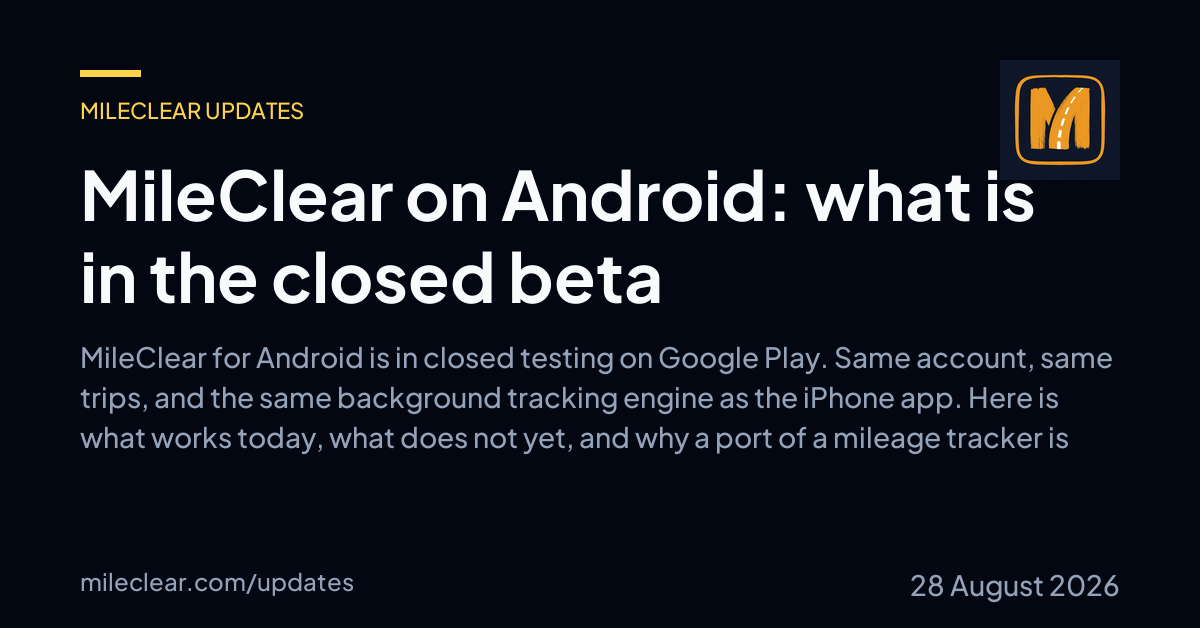
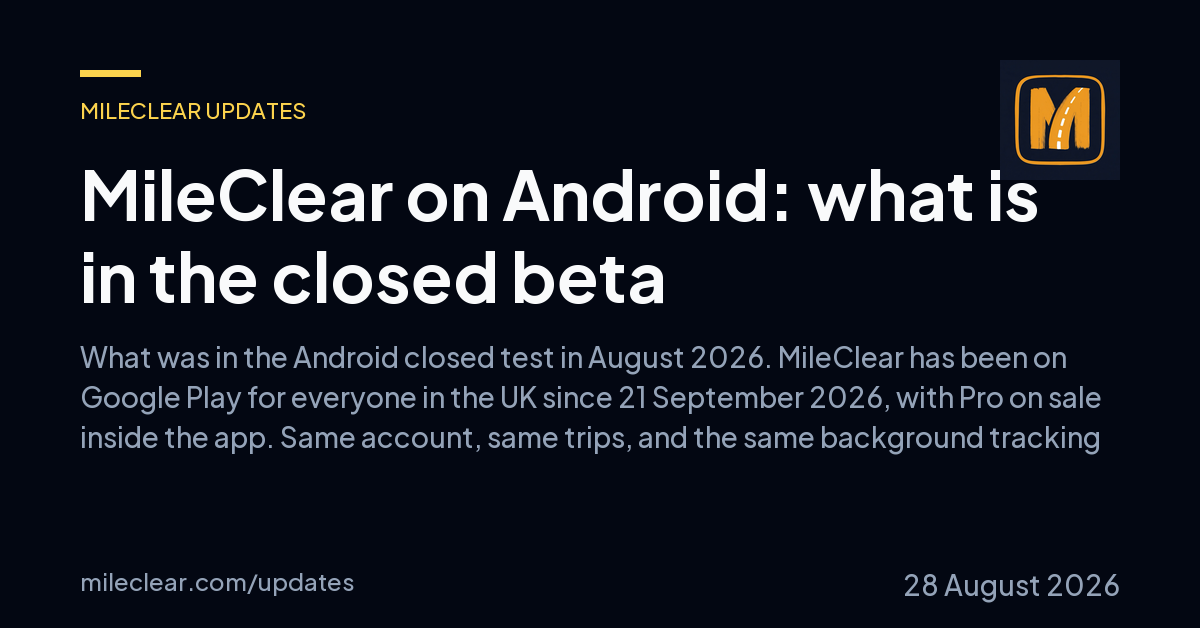
Blog: dated notes and corrections on posts that had gone out of date
Making Tax Digital quarterly updates are described as tested with HMRC's
test service only, with nothing sent to HMRC yet. Notes on the Android
closed beta (on Google Play since 21 September, Pro on sale in the app),
the April roadmap, 1.1.4 and 1.2.0. Removes 'HMRC compliance' wording,
the retired Auto-Classify Rules name and the public TestFlight link.
Corrects the 45p rate where it read as current, the Self Assessment
amendment window (12 months, then overpayment relief within 4 years of
the tax year end), and how the mileage allowance goes on the return.
Refreshes the OG cards whose excerpts changed and adds the three that
were missing.

diff --git a/apps/web/src/data/posts.ts b/apps/web/src/data/posts.ts
@@ -554,11 +554,13 @@ export const BLOG_POSTS: BlogPost[] = [
     slug: "mileclear-on-android-closed-beta",
     title: "MileClear on Android: what is in the closed beta",
     excerpt:
-      "MileClear for Android is in closed testing on Google Play. Same account, same trips, and the same background tracking engine as the iPhone app. Here is what works today, what does not yet, and why a port of a mileage tracker is harder than it sounds.",
+      "What was in the Android closed test in August 2026. MileClear has been on Google Play for everyone in the UK since 21 September 2026, with Pro on sale inside the app. Same account, same trips, and the same background tracking engine as the iPhone app.",
     date: "28 August 2026",
     author: "Gair",
     category: "announcement",
     content: `
+<p><em>Update, October 2026: MileClear is now on <a href="https://play.google.com/store/apps/details?id=com.mileclear.app">Google Play</a> for everyone in the UK, since 21 September 2026. You no longer need to ask to join, and you can buy Pro inside the Android app through Google Play, monthly or yearly. The post below describes the closed test as it was in August.</em></p>
+
 <p>MileClear has been an iPhone app for its whole life. It is now also an Android app, in closed testing on Google Play.</p>
 
 <p>This is not a re-skin or a web page in a wrapper. It is the same codebase, signing in to the same account, reading the same trips. If you have been tracking on an iPhone and you switch, your mileage is already there.</p>
@@ -752,7 +754,7 @@ export const BLOG_POSTS: BlogPost[] = [
 
 <p>The rule is that your income and expenses have to be recorded and kept digitally, and the quarterly updates have to reach HMRC from software rather than by typing figures into a website.</p>
 
-<p>A photo of a receipt is not a digital record on its own. Nor is a shoebox you tip out in January. A spreadsheet can count, provided it can talk to HMRC through bridging software. Most people will find it easier to use an app that keeps the records and does the submitting in one place.</p>
+<p>A photo of a receipt is not a digital record on its own. Nor is a shoebox you tip out in January. A spreadsheet can count, provided it can talk to HMRC through bridging software. Most people will find it easier to use software that keeps the records and sends the updates in one place.</p>
 
 <h2>Where mileage fits into Making Tax Digital</h2>
 
@@ -773,9 +775,9 @@ export const BLOG_POSTS: BlogPost[] = [
 
 <p>We will be straight with you, because there is a lot of marketing about MTD readiness that does not survive contact with the detail.</p>
 
-<p>MileClear has the full Making Tax Digital journey built. You can connect a HMRC account, see your obligations, preview the figures and walk through a submission. It currently runs against HMRC's test service, and it is labelled as beta on every screen inside the app, because we are still waiting for HMRC's production credentials. Until they are granted, submissions do not reach your real tax record, and your live tax position is unaffected.</p>
+<p>MileClear has the full Making Tax Digital journey built. You can connect a HMRC account, see your obligations, preview the figures and walk through a quarterly update. It currently runs against HMRC's test service only, and it is labelled as beta on every screen inside the app, because we are still waiting for HMRC's production credentials. Until they are granted, submissions do not reach your real tax record, and your live tax position is unaffected.</p>
 
-<p>Two limits worth knowing even once it is live. MileClear submits <strong>self-employment income only</strong>, so if you also have UK or foreign property income you will need MTD-compatible software for that as well. And it handles your in-year quarterly updates, not the year-end Final Declaration, which you will finish with HMRC or other compatible software.</p>
+<p>Two limits worth knowing even once it is live. MileClear will send <strong>self-employment income only</strong>, so if you also have UK or foreign property income you will need MTD-compatible software for that as well. And the quarterly updates are the main job. We are also testing an end-of-year step on HMRC's test service, but until that is live you will finish the Final Declaration with HMRC or other compatible software.</p>
 
 <p>We will say plainly when that changes. No dates promised until they are real.</p>
 
@@ -811,12 +813,12 @@ export const BLOG_POSTS: BlogPost[] = [
       {
         question: "Do I need an app for Making Tax Digital, or will a spreadsheet do?",
         answer:
-          "A spreadsheet can be acceptable, because the requirement is that records are kept digitally and that updates reach HMRC from software rather than being typed into a website. A spreadsheet therefore needs bridging software to submit. Many self-employed people find it simpler to use one app that keeps the records and submits them, particularly where mileage is the largest deduction and needs capturing throughout the quarter.",
+          "A spreadsheet can be acceptable, because the requirement is that records are kept digitally and that updates reach HMRC from software rather than being typed into a website. A spreadsheet therefore needs bridging software to submit. Many self-employed people find it simpler to use one piece of software that keeps the records and sends the updates, particularly where mileage is the largest deduction and needs capturing throughout the quarter.",
       },
       {
         question: "Is MileClear MTD compatible?",
         answer:
-          "The full Making Tax Digital journey is built into MileClear, but it currently runs against HMRC's test service while we wait for HMRC's production credentials, and it is labelled as beta on every screen in the app. Until that finishes, submissions do not reach your real tax record. MileClear covers self-employment income only, so property income needs separate MTD-compatible software, and it handles in-year quarterly updates rather than the year-end Final Declaration. Mileage and expense tracking are free and available today, so your records will be ready whichever software you eventually file with.",
+          "The full Making Tax Digital journey is built into MileClear, but it currently runs against HMRC's test service while we wait for HMRC's production credentials, and it is labelled as beta on every screen in the app. Until that finishes, submissions do not reach your real tax record. MileClear covers self-employment income only, so property income needs separate MTD-compatible software, and until its end-of-year step is live the Final Declaration is finished with HMRC or other compatible software. Mileage and expense tracking are free and available today, so your records will be ready whichever software you eventually file with.",
       },
     ],
   },
@@ -1143,7 +1145,7 @@ export const BLOG_POSTS: BlogPost[] = [
 
 <h2>MileClear is built for this</h2>
 
-<p>MileClear is a free <a href="/mileage-tracker-uk">UK mileage tracker</a> built around HMRC's AMAP rates and the 6-April tax year. Background GPS captures every drive, you classify each trip with a tap (or set Auto-Classify Rules so you never need to), and the Self Assessment PDF is ready when you are. <a href="/free-mileage-tracker-uk">Free forever</a> for the tracking - Pro (£4.99/mo) only covers the tax-export PDF, business insights, and a few power-user extras.</p>
+<p>MileClear is a free <a href="/mileage-tracker-uk">UK mileage tracker</a> built around HMRC's AMAP rates and the 6-April tax year. Background GPS captures every drive, you classify each trip with a tap (or let it sort trips for you by place and regular journeys, free, or by your work hours on Pro), and the Self Assessment PDF is ready when you are. <a href="/free-mileage-tracker-uk">Free forever</a> for the tracking - Pro (£4.99/mo) only covers the tax-export PDF, business insights, and a few power-user extras.</p>
 
 <p>It works for <a href="/self-employed-mileage-tracker">self-employed sole traders</a>, <a href="/delivery-driver-mileage-tracker">gig delivery drivers</a>, and <a href="/employee-mileage-tracker">PAYE employees</a> claiming Mileage Allowance Relief.</p>
 
@@ -1269,7 +1271,7 @@ export const BLOG_POSTS: BlogPost[] = [
 
 <h2>MileClear's approach</h2>
 
-<p>MileClear is a free <a href="/mileage-tracker-uk">UK mileage tracker</a> built specifically for HMRC compliance. Every trip is GPS-recorded contemporaneously, classified business or personal with a tap (or auto-classified via saved locations or work schedule), and the AMAP calculation runs in real time as you drive. The Self Assessment PDF export (Pro, £4.99/mo) gives you per-trip detail + summary + attestation cover sheet - drop it onto your SA103 or hand it to your accountant. The tracking itself is <a href="/free-mileage-tracker-uk">free forever</a>.</p>
+<p>MileClear is a free <a href="/mileage-tracker-uk">UK mileage tracker</a> built around HMRC's mileage rules. Every trip is GPS-recorded as it happens, classified business or personal with a tap (or sorted for you by saved place, or by your work hours on Pro), and the AMAP calculation runs in real time as you drive. The Self Assessment PDF export (Pro, £4.99/mo) gives you per-trip detail + summary + attestation cover sheet - drop it onto your SA103 or hand it to your accountant. The tracking itself is <a href="/free-mileage-tracker-uk">free forever</a>.</p>
 
 <p><a href="https://apps.apple.com/app/mileclear/id6759671005">Install MileClear on the App Store</a>.</p>
 
@@ -1470,17 +1472,18 @@ export const BLOG_POSTS: BlogPost[] = [
 <li>MOT + tax expiry reminders</li>
 <li>Manual expense tracking (15 SA103-mapped categories)</li>
 <li>Push notifications, profile, feedback voting</li>
+<li>Sharing your records with an accountant whose practice uses MileClear</li>
 </ul>
 
-<p>Pro (£4.99/month) covers:</p>
+<p>Pro (£4.99/month or £44.99/year) covers:</p>
 <ul>
 <li>Printable Self Assessment PDF export</li>
 <li>CSV export + import</li>
 <li>Open Banking earnings sync</li>
-<li>Auto-Classify Rules</li>
+<li>Sort by work hours (sorting by place and regular journeys is free)</li>
 <li>Business Insights (£/mile, £/hour, platform comparison)</li>
 <li>Multi-month analytics</li>
-<li>Accountant sharing</li>
+<li>Emailing your accountant a read-only link from the website</li>
 <li>Journey Map (full-route visualisation)</li>
 <li>Unlimited vehicles + saved locations</li>
 </ul>
@@ -1498,24 +1501,26 @@ export const BLOG_POSTS: BlogPost[] = [
     slug: "whats-new-in-version-1-2-0",
     title: "What's New in Version 1.2.0",
     excerpt:
-      "The biggest MileClear update since launch. Quarterly HMRC submissions, road-accurate trip distances, a Lock Screen that earns its keep while you drive, and every sole-trader feature the community has been asking for. Thirty-odd things in total.",
+      "The biggest MileClear update since launch. Quarterly Making Tax Digital updates (on HMRC's test service only), road-accurate trip distances, a Lock Screen that earns its keep while you drive, and every sole-trader feature the community has been asking for. Thirty-odd things in total.",
     date: "14 May 2026",
     author: "Gair",
     category: "announcement",
     content: `
+<p><em>Update, October 2026: Making Tax Digital quarterly updates in MileClear are still tested with HMRC's test service only. Nothing is sent to HMRC yet, and your real tax record is not affected. Link your bank now works with real UK banks (still in beta, Pro). If you need to file, do it on GOV.UK or through your accountant.</em></p>
+
 <p>Version 1.2.0 has just been approved by Apple. This is the biggest update MileClear has shipped since launch, and it is the first release where I genuinely feel the app has caught up to the idea behind it.</p>
 
 <p>I am going to walk you through the big stuff. Some of it is a brand-new feature that did not exist last week. Some of it is foundational work you will never see because it is the kind of bug that vanishes once it is fixed. All of it ships in the same install.</p>
 
 <h2>Quarterly Self Assessment updates (beta)</h2>
 
-<p>From April 2026, sole traders earning over GBP 50,000 a year have to submit four quarterly returns to HMRC plus a year-end statement. No more single January 31 Self Assessment for that group - it is now five touchpoints with HMRC a year, every year, with deadlines in August, November, February, and May, and a final declaration the following January. It is called MTD ITSA (Making Tax Digital for Income Tax Self Assessment) and for a lot of drivers it is going to be the difference between knowing what they owe and getting an unwelcome surprise.</p>
+<p>From April 2026, sole traders with qualifying income over £50,000 a year have to send HMRC four quarterly updates plus a year-end declaration. No more single January 31 Self Assessment for that group - it is now five touchpoints with HMRC a year, every year, with deadlines in August, November, February, and May, and a final declaration the following January. It is called MTD ITSA (Making Tax Digital for Income Tax Self Assessment) and for a lot of drivers it is going to be the difference between knowing what they owe and getting an unwelcome surprise.</p>
 
-<p>MileClear Pro now does the whole thing.</p>
+<p>MileClear Pro now walks through the whole thing, on HMRC's test service.</p>
 
-<p>Avatar menu, Work and Tax, MTD ITSA. Connect your HMRC account once. Enter your National Insurance Number. Confirm your trade. From that moment on, every open obligation HMRC has for you shows up in MileClear, populated with the figures the app has been building all quarter from your trips, earnings, mileage, and expenses. The preview screen shows exactly what is about to be sent before you tap Submit, broken down per platform, with the AMAP tier crossover called out, and expenses bucketed so there are no surprises. After submission, MileClear asks HMRC's own calculation engine for the tax due and shows you their number alongside ours so you can sanity-check the marginal-rate breakdown before it is locked in.</p>
+<p>Avatar menu, Work and Tax, MTD ITSA. Connect your HMRC account once. Enter your National Insurance Number. Confirm your trade. From that moment on, every open obligation HMRC has for you shows up in MileClear, populated with the figures the app has been building all quarter from your trips, earnings, mileage, and expenses. The preview screen shows exactly what would be sent before you tap Submit, broken down per platform, with the AMAP tier crossover called out, and expenses bucketed so there are no surprises. After submission, MileClear asks HMRC's own calculation engine for the tax due and shows you their number alongside ours so you can sanity-check the marginal-rate breakdown before it is locked in.</p>
 
-<p>This is the feature that took the longest. Sandbox integration with HMRC required 18 separate API services, fraud-prevention header compliance, encrypted token storage, replay-detection on every request, and three rounds of spec-conformance fixes before the validator returned zero errors. Our request for production credentials is still in HMRC's review queue (reference 2026-IBW598). Until they sign off, every submission goes to HMRC's sandbox environment - a banner inside the app makes that explicit so nobody accidentally relies on a sandbox return for their real tax. The moment HMRC grants production credentials, the same flow flips to production and your submissions count.</p>
+<p>This is the feature that took the longest. Sandbox integration with HMRC required 18 separate API services, fraud-prevention header compliance, encrypted token storage, replay-detection on every request, and three rounds of spec-conformance fixes before the validator returned zero errors. Our request for production credentials is still in HMRC's review queue (reference 2026-IBW598). Until they sign off, every submission goes to HMRC's sandbox environment - a banner inside the app makes that explicit so nobody accidentally relies on a sandbox return for their real tax. Until HMRC grants production credentials, nothing reaches your real tax record.</p>
 
 <h2>Trip distances that are actually accurate</h2>
 
@@ -1555,7 +1560,7 @@ export const BLOG_POSTS: BlogPost[] = [
 
 <p><strong>PAYE deductions counted properly.</strong> If you have a salaried day job alongside gig work, you can now tell MileClear what your employer has already deducted in PAYE this year. The "still owed" figure on Tax Readiness becomes honest instead of double-counting tax that has already been collected via your payslip. NI is still calculated separately on your gig profits because Class 4 NI is per-source.</p>
 
-<p><strong>Confidence indicator on every trip.</strong> High, medium, or low badge with tap-to-expand reasons. HMRC-defence material - every claimed mile is now individually auditable. A trip with a Low confidence badge gets a one-tap Recalculate button in case the GPS quality was poor.</p>
+<p><strong>Confidence indicator on every trip.</strong> High, medium, or low badge with tap-to-expand reasons. Useful evidence if HMRC ever asks: every claimed mile can be checked on its own. A trip with a Low confidence badge gets a one-tap Recalculate button in case the GPS quality was poor.</p>
 
 <h2>Rock-solid foundations</h2>
 
@@ -1573,7 +1578,7 @@ export const BLOG_POSTS: BlogPost[] = [
 
 <h2>In-app help and onboarding</h2>
 
-<p>First-time users land on a 5-card Quick Start tour the first time they open the app. Covers the value loop in plain English: automatic trip tracking, Work and Personal classification, the Tax Readiness card, and how HMRC quarterly submissions work. Skippable from the top right, and you can replay it any time from Avatar, Help and Tutorials.</p>
+<p>First-time users land on a 5-card Quick Start tour the first time they open the app. Covers the value loop in plain English: automatic trip tracking, Work and Personal classification, the Tax Readiness card, and how HMRC quarterly updates work. Skippable from the top right, and you can replay it any time from Avatar, Help and Tutorials.</p>
 
 <p>The Help and Tutorials screen itself is a categorised FAQ with about 28 topics across Getting started, Tax and HMRC, Trips, Money, Privacy and data, and Troubleshooting. Tap a topic to expand the answer or jump straight to the relevant settings screen.</p>
 
@@ -1583,7 +1588,7 @@ export const BLOG_POSTS: BlogPost[] = [
 
 <p>Two notes for transparency.</p>
 
-<p>MTD ITSA submissions still go to HMRC's sandbox because our request for production credentials is in their review queue. The Sandbox banner inside the app makes that explicit. The moment HMRC sign off (reference 2026-IBW598), submissions flip to production with no further work needed from you.</p>
+<p>MTD ITSA submissions still go to HMRC's sandbox because our request for production credentials is in their review queue. The Sandbox banner inside the app makes that explicit. Until HMRC sign off (reference 2026-IBW598), nothing is sent to your real tax record.</p>
 
 <p>Open Banking auto-import (Pro) is currently on TrueLayer's sandbox credentials. Same pattern - banner inside the app makes it clear, the flow itself is fully wired, the flip to production happens server-side when we promote the keys.</p>
 
@@ -1605,6 +1610,8 @@ export const BLOG_POSTS: BlogPost[] = [
     author: "Gair",
     category: "announcement",
     content: `
+<p><em>Update, October 2026: the plans at the end of this post have moved on. Making Tax Digital quarterly updates are built but still tested with HMRC's test service only, so nothing is sent to HMRC yet. Expenses shipped with no limit on the free plan.</em></p>
+
 <p>Version 1.1.4 has just been approved by Apple. It is the fifth submission of this version line, which is more rounds than any previous release, and the result is a build that is materially more reliable, more accurate at tax time, and easier to navigate than 1.1.1 was.</p>
 
 <p>This is a different shape of release to 1.1.0. There are no new pillars - the four pillars 1.1.0 introduced (Tax Readiness, Anonymous Benchmarking, HMRC Reconciliation, Vehicle compliance) are intact and unchanged. What 1.1.4 does is sharpen every existing pillar, fix the foundation underneath them, and address two driver segments that 1.1.x had been silently under-serving.</p>
@@ -1761,7 +1768,7 @@ export const BLOG_POSTS: BlogPost[] = [
 
 <h2>Bottom line</h2>
 
-<p>Amazon Flex does not track mileage. If you are claiming AMAP on Self Assessment, that gap is yours to fill. Track every mile contemporaneously with a tool built for HMRC compliance, or accept that you will under-claim by hundreds or thousands of pounds a year.</p>
+<p>Amazon Flex does not track mileage. If you are claiming AMAP on Self Assessment, that gap is yours to fill. Track every mile as you drive with a tool that keeps the record HMRC asks for, or accept that you will under-claim by hundreds or thousands of pounds a year.</p>
 
 <p><a href="https://apps.apple.com/app/mileclear/id6759671005">Install MileClear free on the App Store</a>.</p>
 `,
@@ -1891,6 +1898,8 @@ export const BLOG_POSTS: BlogPost[] = [
 
 <p>For now, this is just personal data collection - your own waits. A future version will use the aggregated data to surface community insights: "this McDonald's averages 12-minute waits", "Uber pickups in this zone average 4 minutes". You will be able to avoid the slow ones. The infrastructure is in 1.1.0; the community surface comes once enough drivers are contributing.</p>
 
+<p><em>Update, October 2026: the community wait-time view described here did not ship. The wait timer still records your own waits.</em></p>
+
 <h2>First-time Self Assessment guide</h2>
 
 <p>Plain-English walkthrough for drivers filing Self Assessment for the first time. Covers UTR registration, the UK tax year (6 April to 5 April), what you actually pay (income tax + Class 4 NI + Class 2 NI), the AMAP mileage deduction at 55p/25p (raised from 45p on 6 April 2026; or 24p flat for mopeds), and the 31 January deadline.</p>
@@ -1924,11 +1933,13 @@ export const BLOG_POSTS: BlogPost[] = [
     slug: "whats-coming-next",
     title: "What's Coming Next",
     excerpt:
-      "1.2.0 is MTD ITSA: HMRC quarterly submissions in time for the first practical deadline of 7 August 2026. Plus community wait-time insights, deeper Anonymous Benchmarking, and longer-term strategic plays.",
+      "Our roadmap as it stood in April 2026: Making Tax Digital quarterly updates (built, and still tested with HMRC's test service only), community wait-time insights, deeper Anonymous Benchmarking, and longer-term plans.",
     date: "26 April 2026",
     author: "Gair",
     category: "announcement",
     content: `
+<p><em>Update, October 2026: this is a plan from April, and some of it changed. Making Tax Digital quarterly updates are built but still tested with HMRC's test service only. No quarterly updates have been sent to HMRC through MileClear, and nothing is sent to HMRC yet. MileClear has been on <a href="https://play.google.com/store/apps/details?id=com.mileclear.app">Google Play</a> for Android since 21 September 2026. The community wait-time view did not ship.</em></p>
+
 <p>Version 1.1.0 is a substantial step. The natural question is: what comes next? Here is the rough shape of where MileClear is heading, organised by when each piece is realistic.</p>
 
 <p>None of this is a hard commitment. Solo development moves with the data, and the data sometimes says "do this thing instead". But the direction is set.</p>
@@ -1937,7 +1948,7 @@ export const BLOG_POSTS: BlogPost[] = [
 
 <p>This is the big one, and it is happening sooner than originally planned. Build starts the week of 5 May 2026.</p>
 
-<p>The April 2026 MTD ITSA threshold of £50,000 is already in effect. The first practical deadline that matters is <strong>7 August 2026</strong> - the close of the Q1 2026-27 quarterly submission window for self-employed drivers crossing that threshold. That is full-time DPD ODFs, full-time Amazon Flex drivers, full-time Uber drivers, and any multi-app driver running 60+ hour weeks. They need MTD-compliant software now, and whichever app they pick first becomes their default.</p>
+<p>The April 2026 MTD ITSA threshold of £50,000 is already in effect. The first practical deadline that matters is <strong>7 August 2026</strong> - the close of the Q1 2026-27 quarterly submission window for self-employed drivers crossing that threshold. That is full-time DPD ODFs, full-time Amazon Flex drivers, full-time Uber drivers, and any multi-app driver running 60+ hour weeks. They need MTD-compatible software now, and whichever app they pick first becomes their default.</p>
 
 <p>So MileClear is shipping it as 1.2.0, on a tight ~12-week timeline:</p>
 
@@ -2079,7 +2090,7 @@ export const BLOG_POSTS: BlogPost[] = [
 
 <h2>Get it</h2>
 
-<p>Version 1.0.10 (build 50) is live on <a href="https://testflight.apple.com/join/SGrmnaaH">TestFlight</a> today. The Self Assessment wizard and accountant sharing are already live on the <a href="/dashboard/self-assessment">web dashboard</a> if you want to try them now.</p>
+<p>Version 1.0.10 (build 50) went out to TestFlight testers today. The Self Assessment wizard and accountant sharing are already live on the <a href="/dashboard/self-assessment">web dashboard</a> if you want to try them now.</p>
 
 <p>As always, feedback goes straight to us - use the feedback screen in the app or email <a href="mailto:support@mileclear.com">support@mileclear.com</a>.</p>
 
@@ -2389,7 +2400,7 @@ export const BLOG_POSTS: BlogPost[] = [
 <li>If the road data lookup fails for any reason (no signal, server blip), we fall back to the GPS sum. Your trip is still saved and still accurate to within a few percent.</li>
 </ul>
 
-<p>In testing we saw trips that were previously reading 10-11% short now matching the odometer within 2-3%. For HMRC purposes that is the difference between a defensible mileage claim and one that looks suspiciously round.</p>
+<p>In testing we saw trips that were previously reading 10-11% short now matching the odometer within 2-3%. If HMRC ever asks, that is the difference between a mileage claim you can explain and one that looks suspiciously round.</p>
 
 <h2>The other complaint: trips not starting at all</h2>
 
@@ -2470,9 +2481,9 @@ export const BLOG_POSTS: BlogPost[] = [
 
 <p>If you're starting fresh for 2026-27, you're in a great position. Every trip from tomorrow is a clean slate. Set up your vehicle, save your regular locations, and let MileClear learn your routes over the first few weeks. By the end of April, most of your trips will classify themselves.</p>
 
-<p>HMRC rates for 2026-27 remain the same: 45p per mile for the first 10,000 business miles (cars and vans), 25p after that, and 24p flat for motorbikes.</p>
+<p>HMRC rates for 2026-27: 55p per mile for the first 10,000 business miles (cars and vans), up from 45p, then 25p after that, and 24p flat for motorbikes.</p>
 
-<p><em>Editor's note (May 2026): HMRC subsequently raised the first-tier car/van rate from 45p to 55p per mile for the 2026-27 tax year, effective from 6 April 2026. The 25p second-tier and 24p motorbike rates are unchanged. See our <a href="/hmrc-mileage-rates">HMRC mileage rates page</a> for the current figures.</em></p>
+<p><em>Editor's note (May 2026): this post first said the 2026-27 rates would stay at 45p. HMRC raised the first-tier car/van rate from 45p to 55p per mile for the 2026-27 tax year, effective from 6 April 2026, and the line above now says so. The 25p second-tier and 24p motorbike rates are unchanged. See our <a href="/hmrc-mileage-rates">HMRC mileage rates page</a> for the current figures.</em></p>
 
 <h2>What's next</h2>
 
@@ -2492,6 +2503,8 @@ export const BLOG_POSTS: BlogPost[] = [
     author: "Gair",
     category: "engineering",
     content: `
+<p><em>Update, October 2026: since version 1.3.13 you can also swipe a trip right in the To sort list to mark it Business, with Undo. It is there for the trips the app cannot sort for you. Everything below about sorting trips automatically still applies.</em></p>
+
 <p>Every mileage tracking app has the same problem: you drive somewhere, the app records the trip, and then you have to tell it whether it was business or personal. Every. Single. Time.</p>
 
 <p>Some competitors solve this with a swipe gesture. Left for business, right for personal. It's satisfying the first few times. It's tedious by trip number fifty. And by trip number two hundred, most people stop doing it altogether. Their mileage log fills up with unclassified trips, their HMRC deduction is wrong, and the whole point of tracking is undermined.</p>
@@ -2566,13 +2579,13 @@ export const BLOG_POSTS: BlogPost[] = [
 
 <h2>1. Check your trip classifications</h2>
 
-<p>Open MileClear and go to your Trips tab. Filter by "Unclassified" - these are trips the app recorded but you haven't confirmed as business or personal yet. Go through them and classify each one. It only takes a tap per trip, but it makes a big difference to your deduction total.</p>
+<p>Open MileClear and go to your Trips tab. Open the "To sort" list - these are trips the app recorded but you haven't confirmed as business or personal yet. Go through them and classify each one. It only takes a tap per trip, but it makes a big difference to your deduction total.</p>
 
 <p>If you're not sure whether a trip counts as business, the general rule is: if you were driving to earn money (heading to a pickup, driving between deliveries, going to a depot), it's business. Driving from home to your first job of the day is commuting and doesn't count - but once you're "on the clock", everything in between does.</p>
 
 <h2>2. Check your vehicle details</h2>
 
-<p>HMRC rates differ by vehicle type. Cars and vans get 45p/25p, motorbikes get 24p flat. Make sure your vehicle in MileClear is set to the right type - it affects every calculation.</p>
+<p>HMRC rates differ by vehicle type. For 2025-26, cars and vans get 45p/25p (55p/25p from 6 April 2026), motorbikes get 24p flat. Make sure your vehicle in MileClear is set to the right type - it affects every calculation.</p>
 
 <p>If you changed vehicles during the year, make sure both are in the app and trips are assigned to the correct one.</p>
 
@@ -2736,6 +2749,8 @@ export const BLOG_POSTS: BlogPost[] = [
 
 <p>MileClear is live on the App Store now, in early access. The core loop  - track trips, see your HMRC deduction, export when you need to  - works well. I'm adding an annual plan, improving the auto-trip detection, and listening carefully to what beta testers actually want before I build anything else.</p>
 
+<p><em>Update, October 2026: the annual plan is out. Pro is £4.99 a month or £44.99 a year, on iPhone and Android.</em></p>
+
 <p>If you're a UK driver of any kind  - gig worker, sole trader, employee who uses their personal car for work  - and you're not tracking your mileage, you're leaving money with HMRC that's legally yours. MileClear is free to try. Give it a go.</p>
     `.trim(),
   },
@@ -2792,6 +2807,8 @@ export const BLOG_POSTS: BlogPost[] = [
 
 <p>Train journeys are a known issue. A fast train exceeds the speed threshold and looks exactly like motorway driving from GPS. We're experimenting with CoreMotion activity recognition (the API that knows whether you're walking, cycling, or in a vehicle) to filter these out. It's not in the app yet, but it's coming.</p>
 
+<p><em>Update, October 2026: since version 1.3.11 MileClear reads your phone's motion sensor, the same activity recognition described above, to tell a walk from a drive and to help spot the start of a drive.</em></p>
+
 <p>If you spot a false positive, long-press the trip in your inbox and delete it. It takes two seconds and helps me understand where the thresholds need tuning.</p>
     `.trim(),
   },
@@ -2799,7 +2816,7 @@ export const BLOG_POSTS: BlogPost[] = [
     slug: "hmrc-mileage-deduction-guide",
     title: "Understanding Your HMRC Mileage Deduction",
     excerpt:
-      "If you drive for work in the UK  - whether that's gig work, visiting clients, or using your personal car for your employer  - you can claim up to 45p per mile back from HMRC. Here's exactly how it works.",
+      "If you drive for work in the UK  - whether that's gig work, visiting clients, or using your personal car for your employer  - you can claim tax relief on business miles at 55p a mile for the first 10,000 from 6 April 2026 (45p for 2025-26). Here's exactly how it works.",
     date: "20 March 2026",
     author: "Gair",
     category: "guide",
@@ -2838,7 +2855,7 @@ export const BLOG_POSTS: BlogPost[] = [
 
 <p>The mileage deduction reduces your taxable profit, not your tax bill directly. If you're a basic rate taxpayer (20%), a £4,500 mileage deduction reduces your tax bill by £900. If you're a higher rate taxpayer (40%), it's £1,800.</p>
 
-<p>On your Self Assessment return, you enter your total business miles on the Self-employment pages. HMRC applies the approved rates automatically. You don't need to show your calculations  - you just need to have records if they ask.</p>
+<p>HMRC does not work this out for you. You multiply your business miles by the rates yourself and include the total in your car, van and travel expenses on the self-employment pages of your Self Assessment return. You don't need to send your calculations  - you just need to have records if they ask.</p>
 
 <h2>What records do you need to keep?</h2>
 
@@ -2861,13 +2878,13 @@ export const BLOG_POSTS: BlogPost[] = [
 
 <h2>How MileClear calculates it</h2>
 
-<p>Every trip you classify as "business" in MileClear gets counted towards your annual total. The app tracks your cumulative business mileage per tax year across all your vehicles, applies the 45p rate until you hit 10,000 miles, then switches to 25p automatically. You can see your running deduction total on the Work dashboard at any time.</p>
+<p>Every trip you classify as "business" in MileClear gets counted towards your annual total. The app tracks your cumulative business mileage per tax year across all your vehicles, applies 55p a mile (45p for trips before 6 April 2026) until you hit 10,000 miles, then switches to 25p automatically. You can see your running deduction total on the Work dashboard at any time.</p>
 
 <p>When you export at the end of the year, the PDF includes a vehicle-by-vehicle breakdown of your business miles, the deduction calculations, and the tax year totals  - everything you need for your Self Assessment return in one document.</p>
 
 <h2>One more thing</h2>
 
-<p>If you haven't been tracking your mileage but you do drive for work, it's worth going back and estimating what you might have been owed for previous tax years. You can amend a Self Assessment return up to four years after the original filing deadline. Just something worth knowing.</p>
+<p>If you haven't been tracking your mileage but you do drive for work, it's worth going back and estimating what you might have been owed for previous tax years. You can correct a Self Assessment return within 12 months of the 31 January deadline. After that, you can write to HMRC to claim overpayment relief, up to four years after the end of the tax year it relates to. Just something worth knowing.</p>
     `.trim(),
   },
 ];
